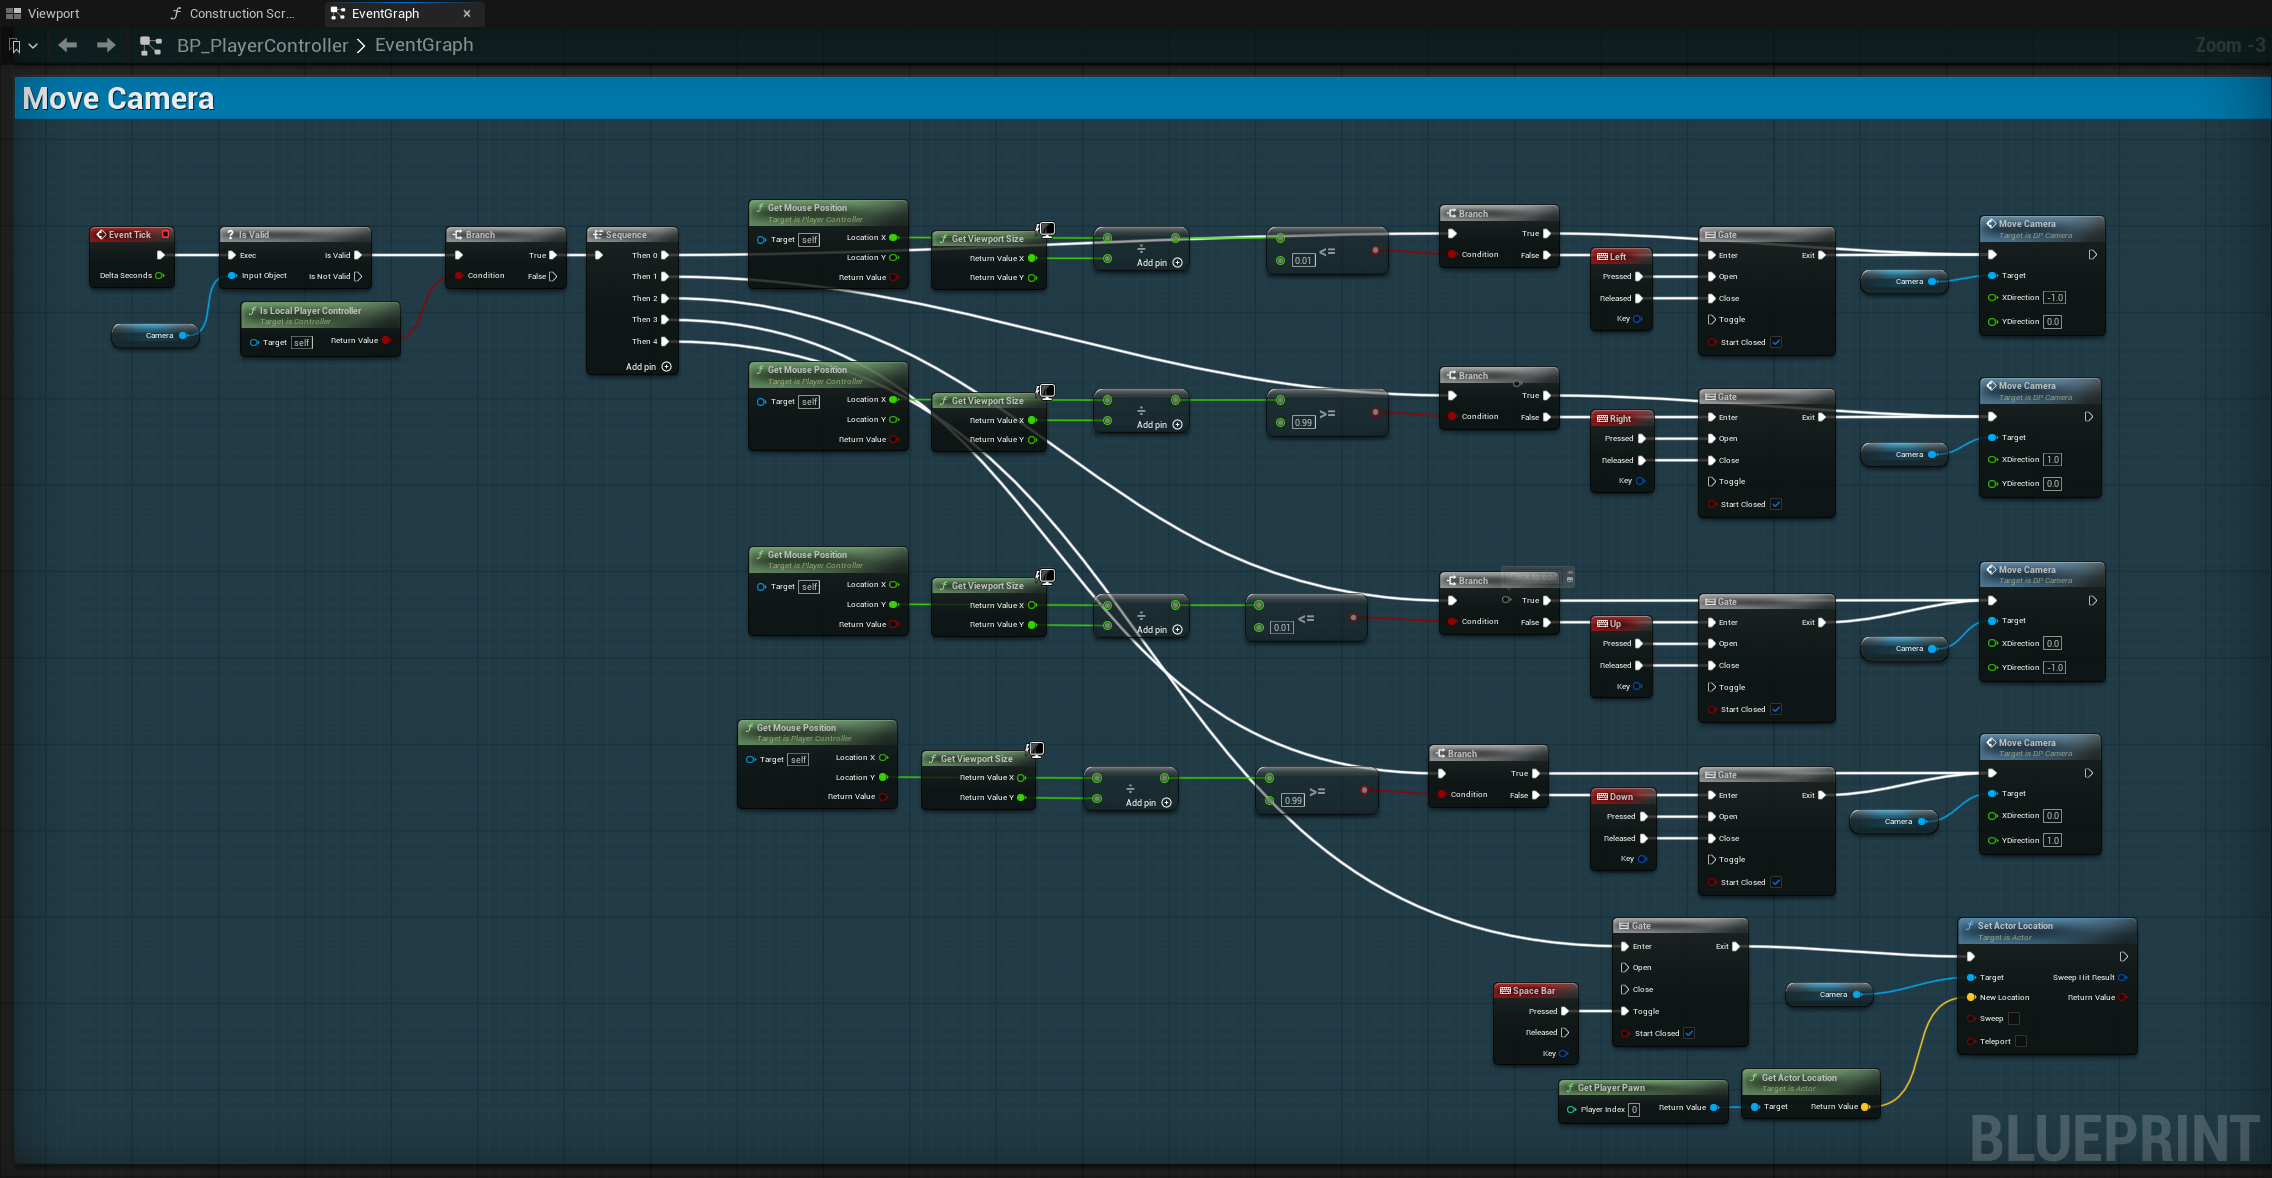
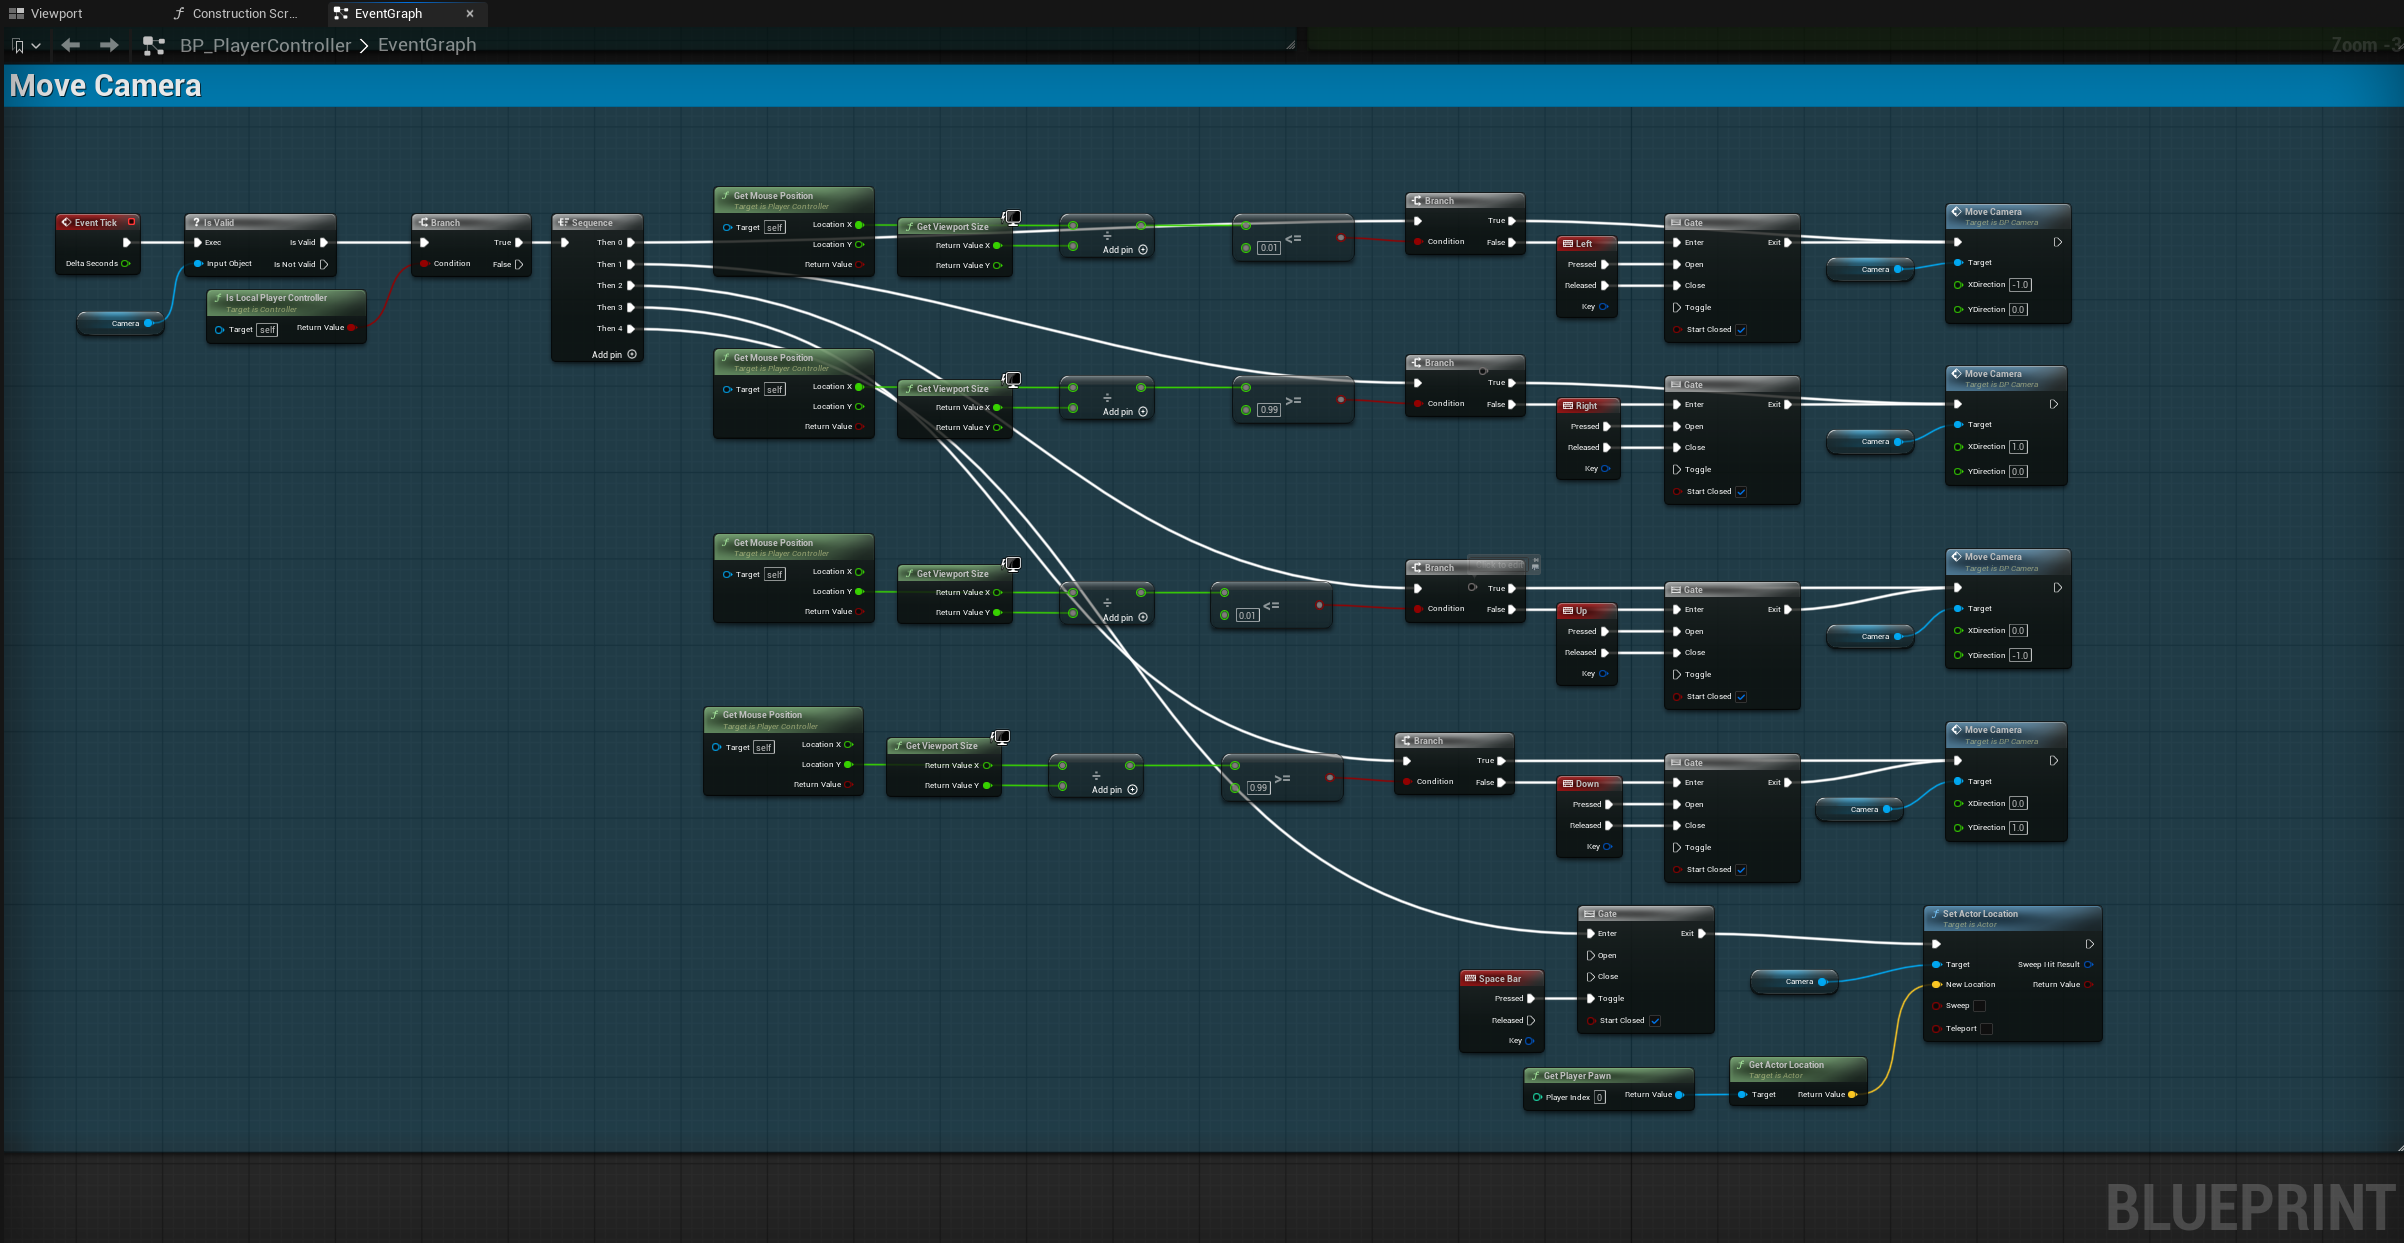
Wire Player Input tab to newly uploaded blueprint photos
Move root image uploads into screenshots/moba and show overview plus
two close-ups: right-click/camera/HUD detail and Move Camera.

diff --git a/index.html b/index.html
@@ -187,20 +187,12 @@
                         </figure>
                         <div class="tech-visual-grid">
                             <figure class="tech-visual">
-                                <button type="button" class="tech-visual-expand" aria-label="Expand blueprint: right click routing auto attack and movement">
+                                <button type="button" class="tech-visual-expand" aria-label="Expand blueprint: right click routing, camera setup and HUD">
                                     <span class="tech-visual-badge">Blueprint</span>
-                                    <img src="screenshots/moba/player-controller-right-click.png" alt="Right click routing to auto attack or movement" loading="lazy">
+                                    <img src="screenshots/moba/player-controller-detail.png" alt="Right click routing, spawn camera, ability test and HUD setup" loading="lazy">
                                     <span class="tech-expand-hint" aria-hidden="true"><span class="tech-expand-icon">⤢</span> Click to expand</span>
                                 </button>
-                                <figcaption>Right click – routing, auto attack &amp; movement</figcaption>
-                            </figure>
-                            <figure class="tech-visual">
-                                <button type="button" class="tech-visual-expand" aria-label="Expand blueprint: spawn camera and player character">
-                                    <span class="tech-visual-badge">Blueprint</span>
-                                    <img src="screenshots/moba/player-controller-spawn-camera.png" alt="Spawn camera and player character on BeginPlay" loading="lazy">
-                                    <span class="tech-expand-hint" aria-hidden="true"><span class="tech-expand-icon">⤢</span> Click to expand</span>
-                                </button>
-                                <figcaption>Spawn camera &amp; player character</figcaption>
+                                <figcaption>Right click, camera setup &amp; HUD</figcaption>
                             </figure>
                             <figure class="tech-visual">
                                 <button type="button" class="tech-visual-expand" aria-label="Expand blueprint: edge scroll and snap to player camera">
@@ -209,14 +201,6 @@
                                     <span class="tech-expand-hint" aria-hidden="true"><span class="tech-expand-icon">⤢</span> Click to expand</span>
                                 </button>
                                 <figcaption>Edge-scroll &amp; snap-to-player camera</figcaption>
-                            </figure>
-                            <figure class="tech-visual">
-                                <button type="button" class="tech-visual-expand" aria-label="Expand blueprint: HUD setup and ability test input">
-                                    <span class="tech-visual-badge">Blueprint</span>
-                                    <img src="screenshots/moba/player-controller-ui.png" alt="HUD widget setup and ability test key input" loading="lazy">
-                                    <span class="tech-expand-hint" aria-hidden="true"><span class="tech-expand-icon">⤢</span> Click to expand</span>
-                                </button>
-                                <figcaption>HUD setup &amp; ability test input</figcaption>
                             </figure>
                         </div>
                         <div class="tech-code tech-code-wide">
